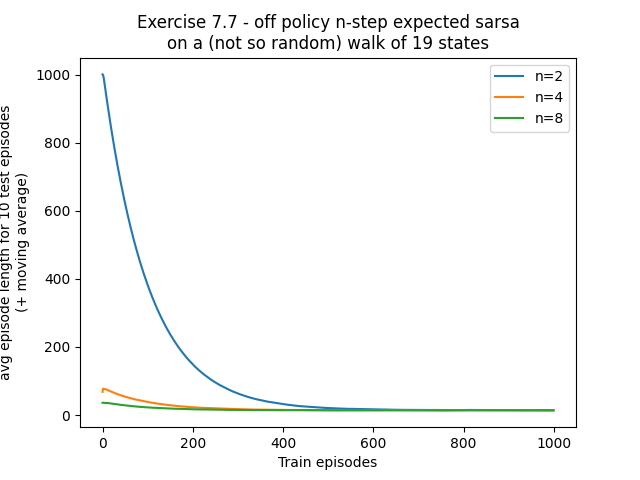
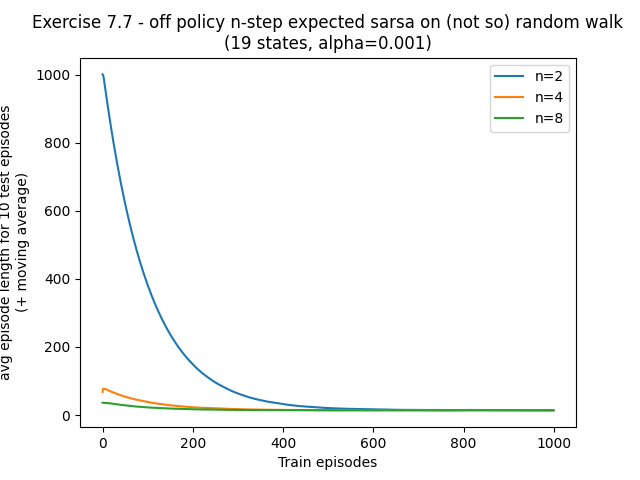
added step size to plots

Changed region(s): [[0.0312, 0.0312, 0.9688, 0.125]]

diff --git a/chapter7/figures.py b/chapter7/figures.py
@@ -6,6 +6,7 @@ from randomwalk import RandomWalk, NotSoRandomWalk, EMPTY_MOVE
 from windy_gridworld import WindyGridworld
 from nstep_sarsa import nStepSarsa
 from off_pol_nstep_exp_sarsa import OffPolnStepExpSarsa
+from off_pol_nstep_qsigma import OffPolnStepQSigma
 from off_pol_nstep_sarsa import OffPolnStepSarsa
 from off_pol_nstep_td import OffPolnStepTD
 from nstep_tree_backup import nStepTreeBackup
@@ -35,6 +36,9 @@ EX_7_10_N_STATES = 5
 SECTION_7_5_STEPSIZE = 0.01
 SECTION_7_5_N_EP_TRAIN = 200
 SECTION_7_5_MAX_N = 8
+SECTION_7_6_STEPSIZE = 0.01
+SECTION_7_6_N_EP_TRAIN = 200
+SECTION_7_6_MAX_N = 8
 
 def run_random_walks(ax, ex_7_2=False, show=True, extra_label='', dashed=False, n_runs=FIG_7_2_N_RUNS, n_states=FIG_7_2_N_STATES, left_rew=-1, true_vals=None, V_init=None):
   n_l = [2 ** k for k in range(int(np.log(FIG_7_2_MAX_N) / np.log(2)) + 1)]
@@ -135,12 +139,12 @@ def fig_7_4():
 def section_7_3():
   env = NotSoRandomWalk()
   alg = OffPolnStepSarsa(env, b=None, step_size=SECTION_7_3_STEPSIZE, gamma=UND, n=2)
-  run_alg(alg, f'Section 7.3 - off-policy n-step sarsa on (not so) random walk ({env.n_states} states, alpha={alg.step_size}', 'plots/section7.3.png', SECTION_7_3_N_EP_TRAIN, 1, SECTION_7_3_MAX_N, 'Train episodes', 'avg episode length for 10 test episodes\n (+ moving average)')
+  run_alg(alg, f'Section 7.3 - off-policy n-step sarsa on (not so) random walk\n({env.n_states} states, alpha={alg.step_size})', 'plots/section7.3.png', SECTION_7_3_N_EP_TRAIN, 1, SECTION_7_3_MAX_N, 'Train episodes', 'avg episode length for 10 test episodes\n (+ moving average)')
 
 def ex_7_7():
   env = NotSoRandomWalk()
   alg = OffPolnStepExpSarsa(env, b=None, step_size=EX_7_7_STEPSIZE, gamma=UND, n=2)
-  run_alg(alg, f'Exercise 7.7 - off policy n-step expected sarsa on (not so) random walk\n({env.n_states} states, alpha={alg.step_size}', 'plots/ex7.7.png', EX_7_7_N_EP_TRAIN, 1, EX_7_7_MAX_N, 'Train episodes', 'avg episode length for 10 test episodes\n(+ moving average)')
+  run_alg(alg, f'Exercise 7.7 - off policy n-step expected sarsa on (not so) random walk\n({env.n_states} states, alpha={alg.step_size})', 'plots/ex7.7.png', EX_7_7_N_EP_TRAIN, 1, EX_7_7_MAX_N, 'Train episodes', 'avg episode length for 10 test episodes\n(+ moving average)')
 
 def ex_7_10():
   fig, ax = plt.subplots()
@@ -159,8 +163,13 @@ def ex_7_10():
 def section_7_5():
   env = NotSoRandomWalk(n_states=19)
   alg = nStepTreeBackup(env, step_size=SECTION_7_5_STEPSIZE, gamma=UND, n=1)
-  run_alg(alg, f'Section 7.5 - n-step tree backup on (not so) random walk ({env.n_states} states, alpha={alg.step_size}', 'plots/section7.5.png', SECTION_7_5_N_EP_TRAIN, 1, SECTION_7_5_MAX_N, 'Train episodes', 'avg episode length for 10 test episodes\n (+ moving average)')
-  
+  run_alg(alg, f'Section 7.5 - n-step tree backup on (not so) random walk\n({env.n_states} states, alpha={alg.step_size})', 'plots/section7.5.png', SECTION_7_5_N_EP_TRAIN, 1, SECTION_7_5_MAX_N, 'Train episodes', 'avg episode length for 10 test episodes\n (+ moving average)')
+
+def section_7_6():
+  env = NotSoRandomWalk(n_states=19)
+  alg = OffPolnStepQsigma(env, sigma_f=0.0, step_size=SECTION_7_6_STEPSIZE, gamma=UND, n=1)
+  run_alg(alg, f'Section 7.6 - off policy n-step Q(sigma) on (not so) random walk\n({env.n_states} states, alpha={alg.step_size})', 'plots/section7.6.png', SECTION_7_6_N_EP_TRAIN, 1, SECTION_7_6_MAX_N, 'Train episodes', 'avg episode length for 10 test episodes\n (+ moving average)')
+   
 
 PLOT_FUNCTION = {
   'ex7.2': ex_7_2,
@@ -171,6 +180,7 @@ PLOT_FUNCTION = {
   'ex7.7': ex_7_7,
   'ex7.10': ex_7_10,
   'section7.5': section_7_5,
+  'section7.6': section_7_6,
 }
 
 def main():
@@ -182,8 +192,9 @@ def main():
   args = parser.parse_args()
 
   if args.figure == 'all':
-    for f in PLOT_FUNCTION.values():
-      f()
+    for key, f in PLOT_FUNCTION.items():
+      if key not in ['ex7.2', '7.2']:
+        f()
   else:
     PLOT_FUNCTION[args.figure]()
 

diff --git a/chapter7/off_pol_nstep_qsigma.py b/chapter7/off_pol_nstep_qsigma.py
@@ -1,0 +1,52 @@
+from off_pol_nstep_sarsa import OffPolnStepSarsa
+
+class OffPolnStepQSigma(OffPolnStepSarsa):
+  def __init__(self, env, sigma_f, step_size, gamma, n, b=None):
+    super().__init__(env, b, step_size, gamma, n)
+    self.sigma_f = lambda s: sigma_f if isinstance(sigma_f, float) else sigma_f
+    self.reset()
+
+  def pol_eval(self, n_ep=100, pi=None):
+    n, g, R, S, Q, A = self.n, self.gamma, self.R, self.S, self.Q, self.A
+    ro, sigma = [np.ones(n + 1) for _ in range(2)]
+    pi_learned = pi is None
+    avg = None
+    self.pi = self.initialize_pi() if pi_learned else pi
+    avg_length_l = []
+    for ep in range(n_ep):
+      ep_len = self.get_nb_timesteps(self.pi, 10)
+      avg = ep_len if avg is None else 0.2 * ep_len + 0.8 * avg
+      avg_length_l.append(avg)
+      print(f"nb_timesteps after {ep} train episodes ~= {avg} timesteps")
+      S[0] = self.env.reset()
+      A[0] = self.sample_action(self.b, S[0])
+      T = np.inf
+      t = 0
+      while True:
+        tm, tp1m = t % (n + 1), (t + 1) % (n + 1)
+        if t < T:
+          S[tp1m], R[tp1m], d, _ = self.env.step(A[tm])
+          if d:
+            T = t + 1
+          else:
+            A[tp1m] = self.sample_action(self.b, S[tp1m])
+        tau = t - n + 1
+        if tau >= 0:
+          tmax = min(t + 1, T)
+          tmaxm = tmax % (n + 1)
+          G = R[tmaxm] + (tmax == T) * g * (self.exp_Q(tmaxm))
+          for k in range(tmax - 1, tau, -1):
+            km = k % (n + 1)
+            s, a, r = S[km], A[km], R[km]
+            G = r + g * (self.exp_Q(km, a) + self.pi[(a, s)] * G)
+          s, a = S[tau % (n + 1)], A[tau % (n + 1)]
+          Q[(s, a)] += self.step_size * (G - Q[(s, a)])
+          if pi_learned:
+            self.update_pi(s)
+        if tau == (T - 1):
+          break
+        t += 1
+    return avg_length_l
+
+  def reset(self):
+    super().reset()

diff --git a/chapter7/README.md b/chapter7/README.md
@@ -44,9 +44,10 @@ python figures ex7.10
 
 ## Sections
 
+implementation of algorithms from section 3, 5 and 7, tested with different values of n on a modification of the random walk, not actual exercises or figures from the book (but uses pseudo-code from corresponding sections).
+
 ### Section 7.3
 
-implementation of the algorithm described in section 7.3, tested with different values of n on a modification of the random walk, not an actual exercise or figure from the book (but uses pseudo-code from section).
 
 ![section7.3.png](plots/section7.3.png)
 
@@ -54,3 +55,14 @@ implementation of the algorithm described in section 7.3, tested with different 
 python figures section7.3
 ```
 
+![section7.5.png](plots/section7.5.png)
+
+```bash
+python figures section7.5
+```
+
+![section7.6.png](plots/section7.6.png)
+
+```bash
+python figures section7.6
+```
